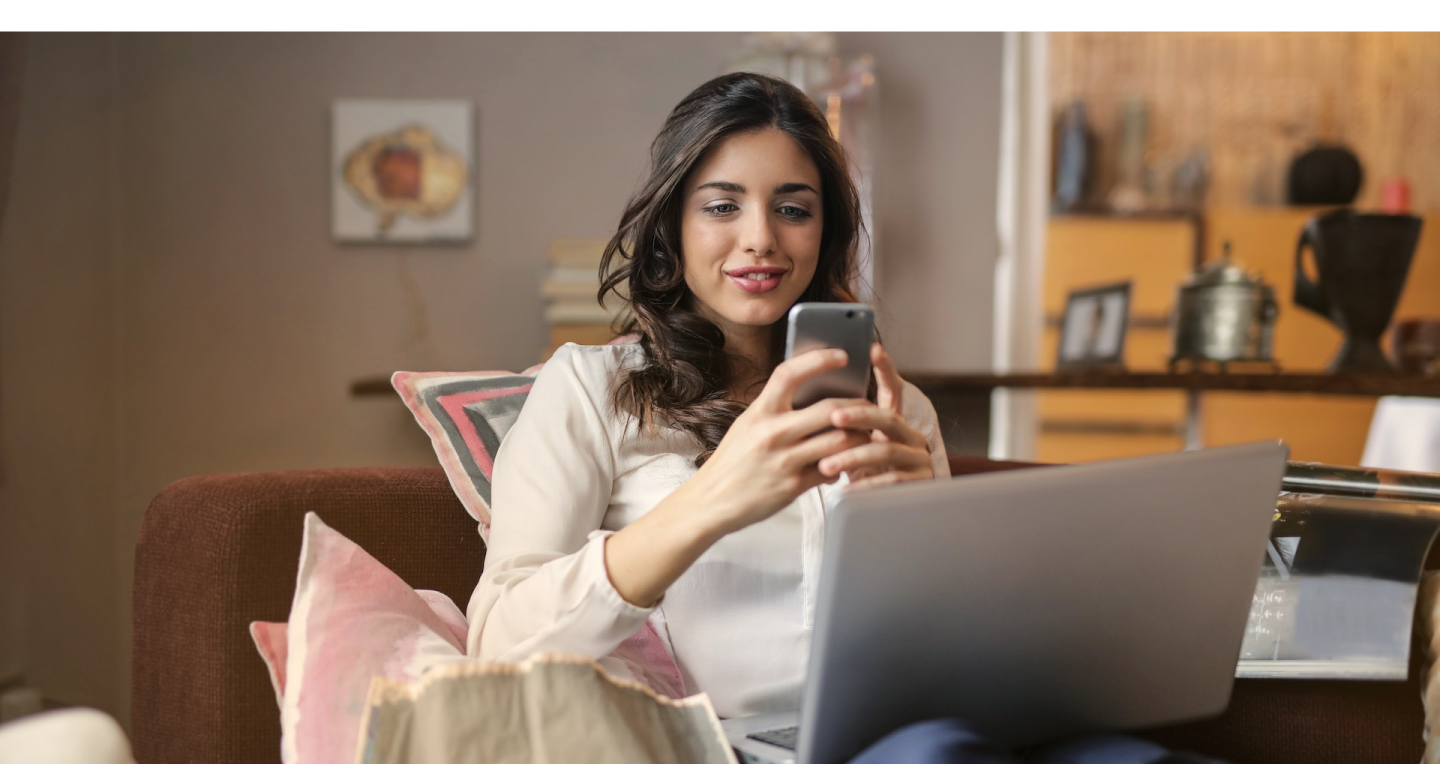
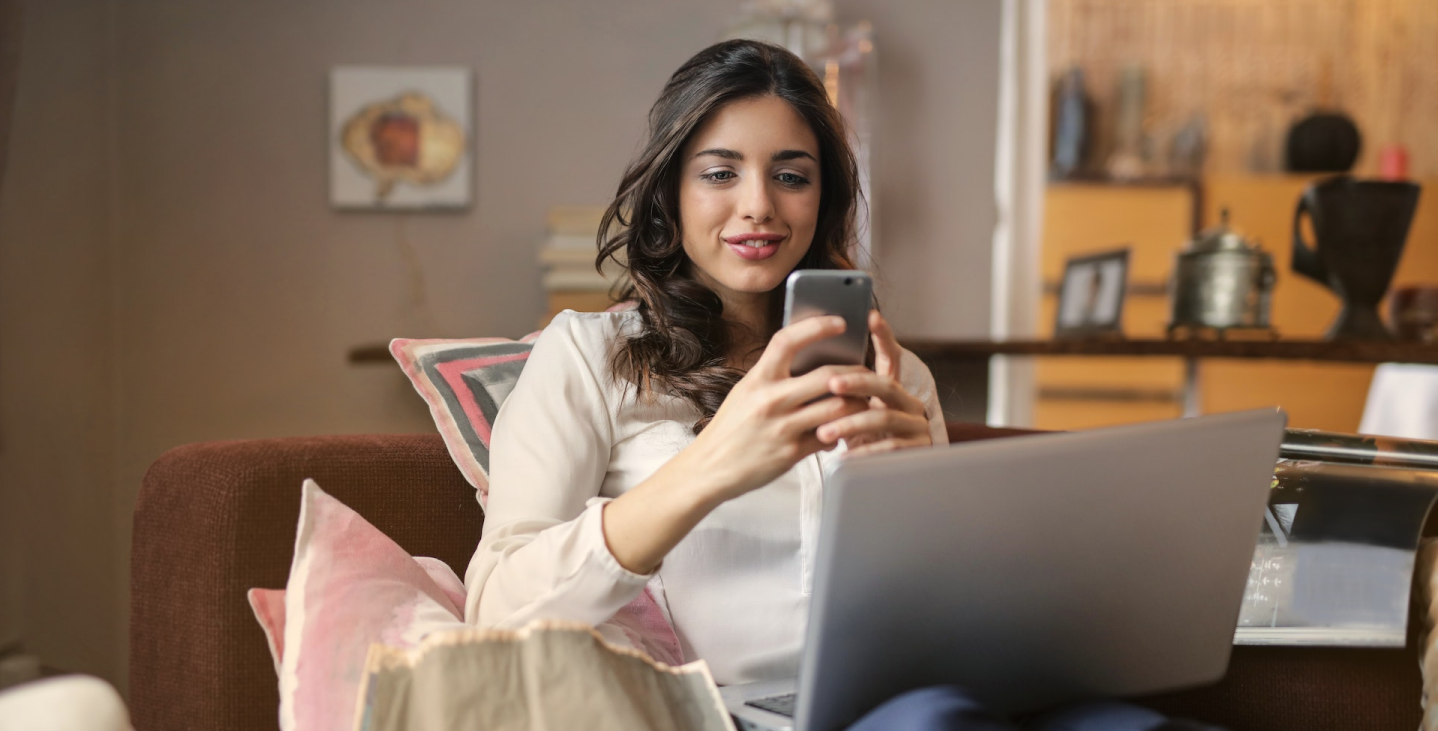
Creando la navbar

diff --git a/digitalmoneyhouse/src/components/navbar/Navbar.tsx b/digitalmoneyhouse/src/components/navbar/Navbar.tsx
@@ -1,0 +1,23 @@
+import Image from 'next/image'
+import icon from '../../../public/LogoVerde.png'
+
+const Navbar = () => {
+  return (
+    <div className="p-3 bg-total-black">
+      <div className='grid grid-cols-12 items-center'>
+        <div className='col-span-2 col-start-2'>
+          <Image
+            src={icon}
+            alt="Icono brand"
+            priority
+          />
+        </div>
+        <div className='space-x-4 col-span-10 col-start-6 lg:col-start-10'>
+          <button className=" px-3 py-2 border rounded-[5px] text-xs md:text-base md:text-total-black text-total-primary font-extrabold">Ingresar</button>
+          <button className=" px-3 py-2 border rounded-[5px] text-xs border-total-primary text-total-black bg-total-primary font-extrabold">Crear cuenta</button>
+        </div>
+      </div>
+    </div>
+  )
+}
+export default Navbar

diff --git a/digitalmoneyhouse/src/app/layout.tsx b/digitalmoneyhouse/src/app/layout.tsx
@@ -1,6 +1,7 @@
 import type { Metadata } from "next";
 import { Roboto } from "next/font/google";
 import "./globals.css";
+import Navbar from "@/components/navbar/Navbar";
 
 const roboto = Roboto({subsets: ["latin"], style: ['normal'], weight: ["100"]});
 
@@ -16,7 +17,10 @@ export default function RootLayout({
 }>) {
   return (
     <html lang="en">
-      <body className={roboto.className}>{children}</body>
+      <body className={roboto.className}>
+        <Navbar/>
+        {children}
+      </body>
     </html>
   );
 }

diff --git a/digitalmoneyhouse/src/app/page.tsx b/digitalmoneyhouse/src/app/page.tsx
@@ -1,16 +1,15 @@
 import Image from "next/image";
 import portada from "../../public/portada.png";
 
-
 export default function Home() {
   return (
     <div className="w-full">
       <Image
         src={portada}
         alt="Imagen de portada"
-        className="w-full h-full"
+        className="w-full  h-full"
         priority
-        placeholder="blur" 
+        
       />
     </div>
   );
